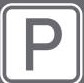
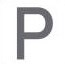
Eveything is Done

diff --git a/src/screens/Home.js b/src/screens/Home.js
@@ -18,7 +18,7 @@ const Home = () => {
   var R5=[]
   var R6=[]
   useEffect(() => {
-    axios.get('http://fec2-2409-4040-d12-d71-6121-8700-98c3-edd.in.ngrok.io/home').then((res) => {
+    axios.get('http://28ec-2409-4040-d10-6000-448b-962d-501d-960f.in.ngrok.io/home').then((res) => {
       if (res.data!=null) {
         setdata(res.data)
 
@@ -34,7 +34,7 @@ const Home = () => {
     <SafeAreaView style={{ flex: 1, backgroundColor: 'paleturquoise' }}>
         <View style={{flexDirection:"row",borderBottomColor:'black',borderBottomWidth:7,backgroundColor:'darkolivegreen',justifyContent:'center'}}>
       {/* <Image source={require('../../assets/remove.jpg')}
-        style={{marginLeft:20, height: 30, width:30,transform:[{rotate:'360deg'}] }}
+        style={{marginLeft:20, height: 30, width:50,transform:[{rotate:'360deg'}] }}
         ></Image> */}
          <Text style={{fontSize:40,  color:"black" ,marginTop:20}}>
             ParkApp
@@ -100,7 +100,7 @@ const Home = () => {
            </View>
          </View>
         {/*////////////////////////////////////////////////////////////////////////*/}
-        <View style={{height:Dheight,width: '100%',borderTopWidth:7, flexWrap: "wrap", alignSelf: "center",paddingTop:20,marginTop:1,backgroundColor:'darkolivegreen'}}>         
+        <View style={{height:Dheight,width: '100%',borderTopWidth:7,borderBottomWidth:7, flexWrap: "wrap", alignSelf: "center",paddingTop:20,marginTop:1,backgroundColor:'darkolivegreen'}}>         
         {
           Object.entries((data)).map((x) => {
              
@@ -109,16 +109,14 @@ const Home = () => {
                 return (
                 <View key={x[0]}>
                 
-                  <View  style={{ height:Dheight/16,  margin:6, alignItems:"center",borderWidth:2,width:30,marginLeft:10   }}  >
-        <MaterialIcons  name="cancel" size={10} color='black' style={{marginTop:4}} />
+                  <View  style={{ height:Dheight/16,  margin:6, alignItems:"center",borderWidth:2,width:50,marginLeft:9  }}  >
+        <MaterialIcons  name="cancel" size={35} color='black' style={{marginTop:4}} />
                   </View>
                   
-                  <View   style={{ height:Dheight/16,  margin:6,marginLeft:10, alignItems:"center",width:30 ,borderWidth:2,backgroundColor:'708090' }}>
-                   {/* <Image source={require('../../assets/CARR.jpg')}
-        style={{ height: 80,  width: 50,borderColor:'black',borderWidth:2,marginTop:-5,transform:[{rotate:'90deg'}]}}
-        ></Image> */}
-         <Text  style={{backgroundColor:'black', color:"white"}}>{x[0]}</Text>
-                
+                  <View    style={{height:Dheight/16,  margin:6,marginLeft:9, alignItems:"center",width:50 ,borderWidth:2,backgroundColor:'708090' }} >
+                 <Image source={require('../../assets/CARR.jpg')}
+        style={{ height: 40,width:26,transform:[{rotate:'90deg'}],marginTop:-8,borderBottomWidth:1}}></Image> 
+         <Text  style={{fontSize:11 , color:"black",marginRight:32,marginTop:-4}}>{x[0]}</Text>
                 </View>
                 
                 </View>
@@ -127,16 +125,15 @@ const Home = () => {
                 return (
                 <View key={x[0]}>
                 
-                   <View  style={{ height:Dheight/16,  margin:6, alignItems:"center",borderWidth:2,width:30,marginLeft:10   }}  >
-        <MaterialIcons  name="cancel" size={10} color='black' style={{marginTop:4}} />
+                   <View  style={{ height:Dheight/16,  margin:6, alignItems:"center",borderWidth:2,width:50,marginLeft:9   }}  >
+        <MaterialIcons  name="cancel" size={35} color='black' style={{marginTop:4}} />
                   </View>
 
-                  <View key={x[0]}   style={{height:Dheight/16, margin:6, alignItems:"center",width:30 ,marginLeft:10 ,borderWidth:2 }} >
-                  {/* <Image source={require('../../assets/park.jpg') }
-        style={{ height: 88, width: 60,marginLeft:30,transform:[{rotate:'90deg'}],borderWidth:2 }}
-        ></Image>*/
-         <Text  style={{color:'white',backgroundColor:"black"}}>{x[0]}</Text>
-                   }
+                  <View  key={x[0]}  style={{height:Dheight/16, margin:6, alignItems:"center",width:50 ,marginLeft:9  }} >
+                  <Image source={require('../../assets/park.jpg') }
+        style={{ height:Dheight/16, width: 40,transform:[{rotate:'90deg'}],marginTop:-2}}
+        ></Image>
+         <Text  style={{fontSize:11 , color:"black",marginRight:32,marginTop:-18}}>{x[0]}</Text>
                   </View>
                 
                 </View>
@@ -145,22 +142,24 @@ const Home = () => {
             }
             if (x[1] == true) {
               return (
-                <View  key={x[0]}  style={{height:Dheight/16, margin:6, alignItems:"center",width:30 ,marginLeft:10 ,borderWidth:2 }} >
-                  {/* <Image source={require('../../assets/park.jpg') }
-        style={{ height: 88, width: 60,marginLeft:30,transform:[{rotate:'90deg'}],borderWidth:2 }}
-        ></Image> */}
-         <Text   style={{color:'white',backgroundColor:"black"}}>{x[0]}</Text>
+                <View  key={x[0]}  style={{height:Dheight/16, margin:6, alignItems:"center",width:50 ,marginLeft:9  }} >
+                  <Image source={require('../../assets/park.jpg') }
+        style={{ height:Dheight/16, width: 40,transform:[{rotate:'90deg'}],marginTop:-2}}
+        ></Image>
+         <Text  style={{fontSize:11 , color:"black",marginRight:32,marginTop:-18}}>{x[0]}</Text>
                   </View>
 
 )
 } else {
   return (
-    <View  key={x[0]}  style={{height:Dheight/16,  margin:6,marginLeft:10, alignItems:"center",width:40 ,borderWidth:2,backgroundColor:'708090' }} >
-                   {/* <Image source={require('../../assets/CARR.jpg')}
-        style={{ height: 80,  width: 50,borderColor:'black',borderWidth:2,marginTop:-5,transform:[{rotate:'90deg'}]}}
-        ></Image> */}
-         <Text  style={{backgroundColor:'black', color:"white"}}>{x[0]}</Text>
+    <View key={x[0]}>
+
+    <View    style={{height:Dheight/16,  margin:6,marginLeft:9, alignItems:"center",width:50 ,borderWidth:2,backgroundColor:'708090' }} >
+                 <Image source={require('../../assets/CARR.jpg')}
+        style={{ height: 40,width:26,transform:[{rotate:'90deg'}],marginTop:-8,borderBottomWidth:1}}></Image> 
+         <Text  style={{fontSize:11 , color:"black",marginRight:32,marginTop:-4}}>{x[0]}</Text>
                 </View>
+      </View>
 
 )
 }
